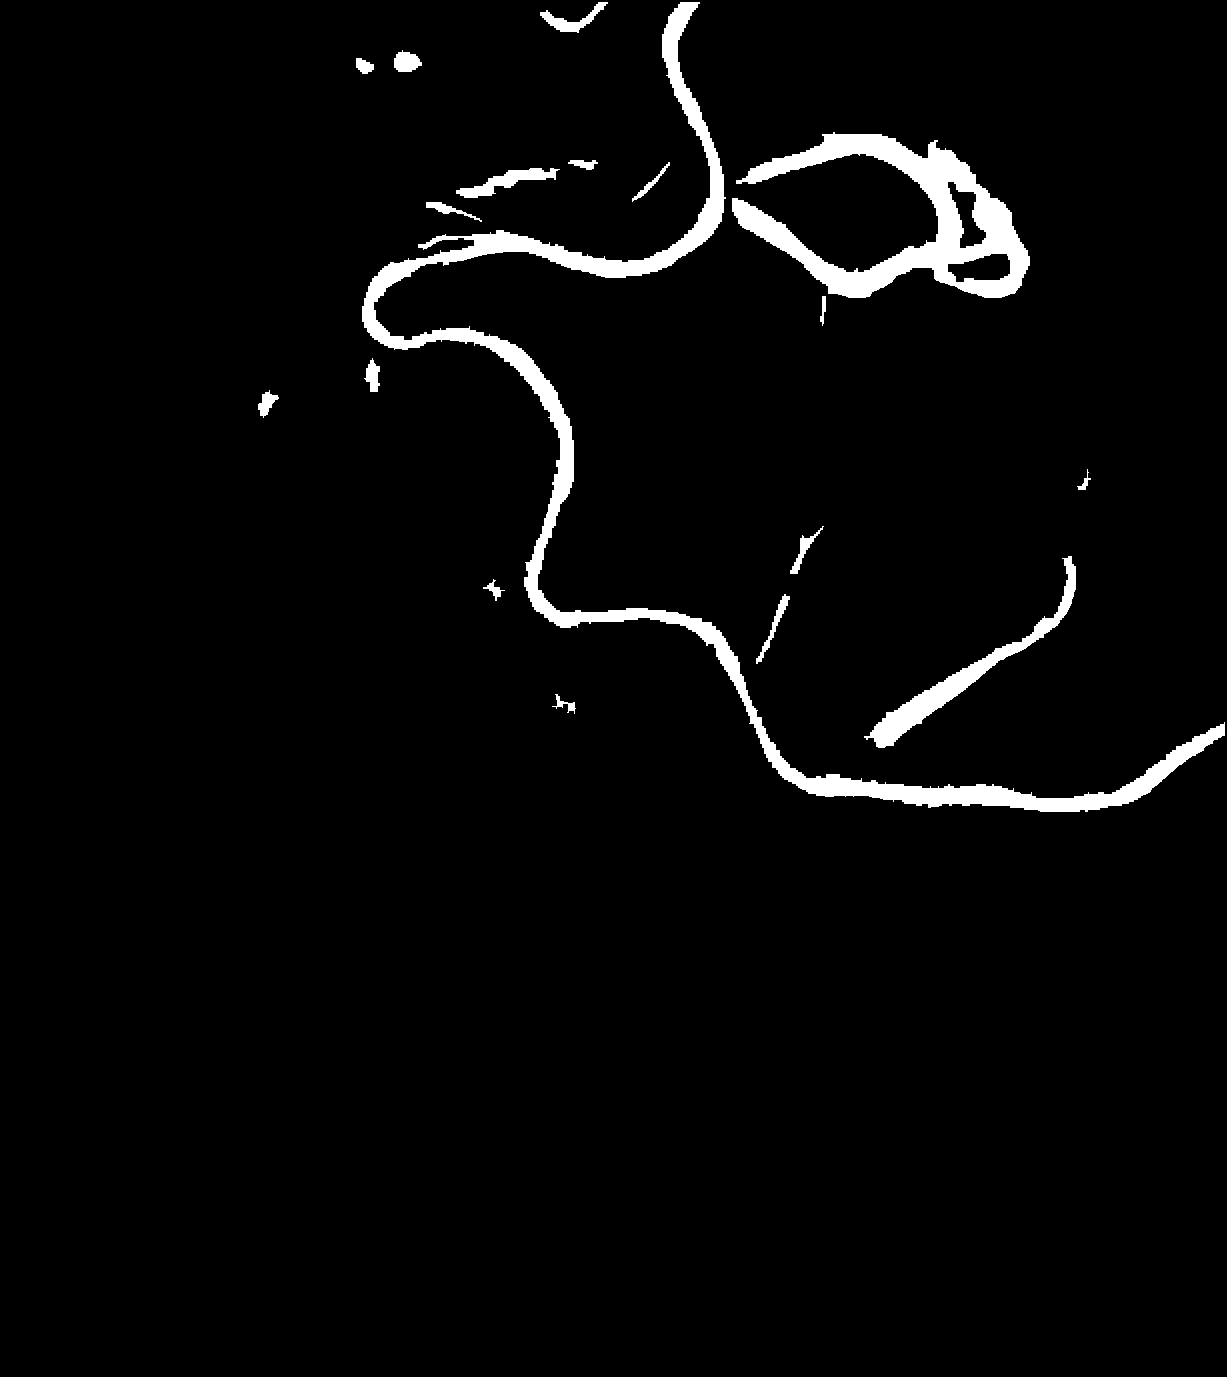
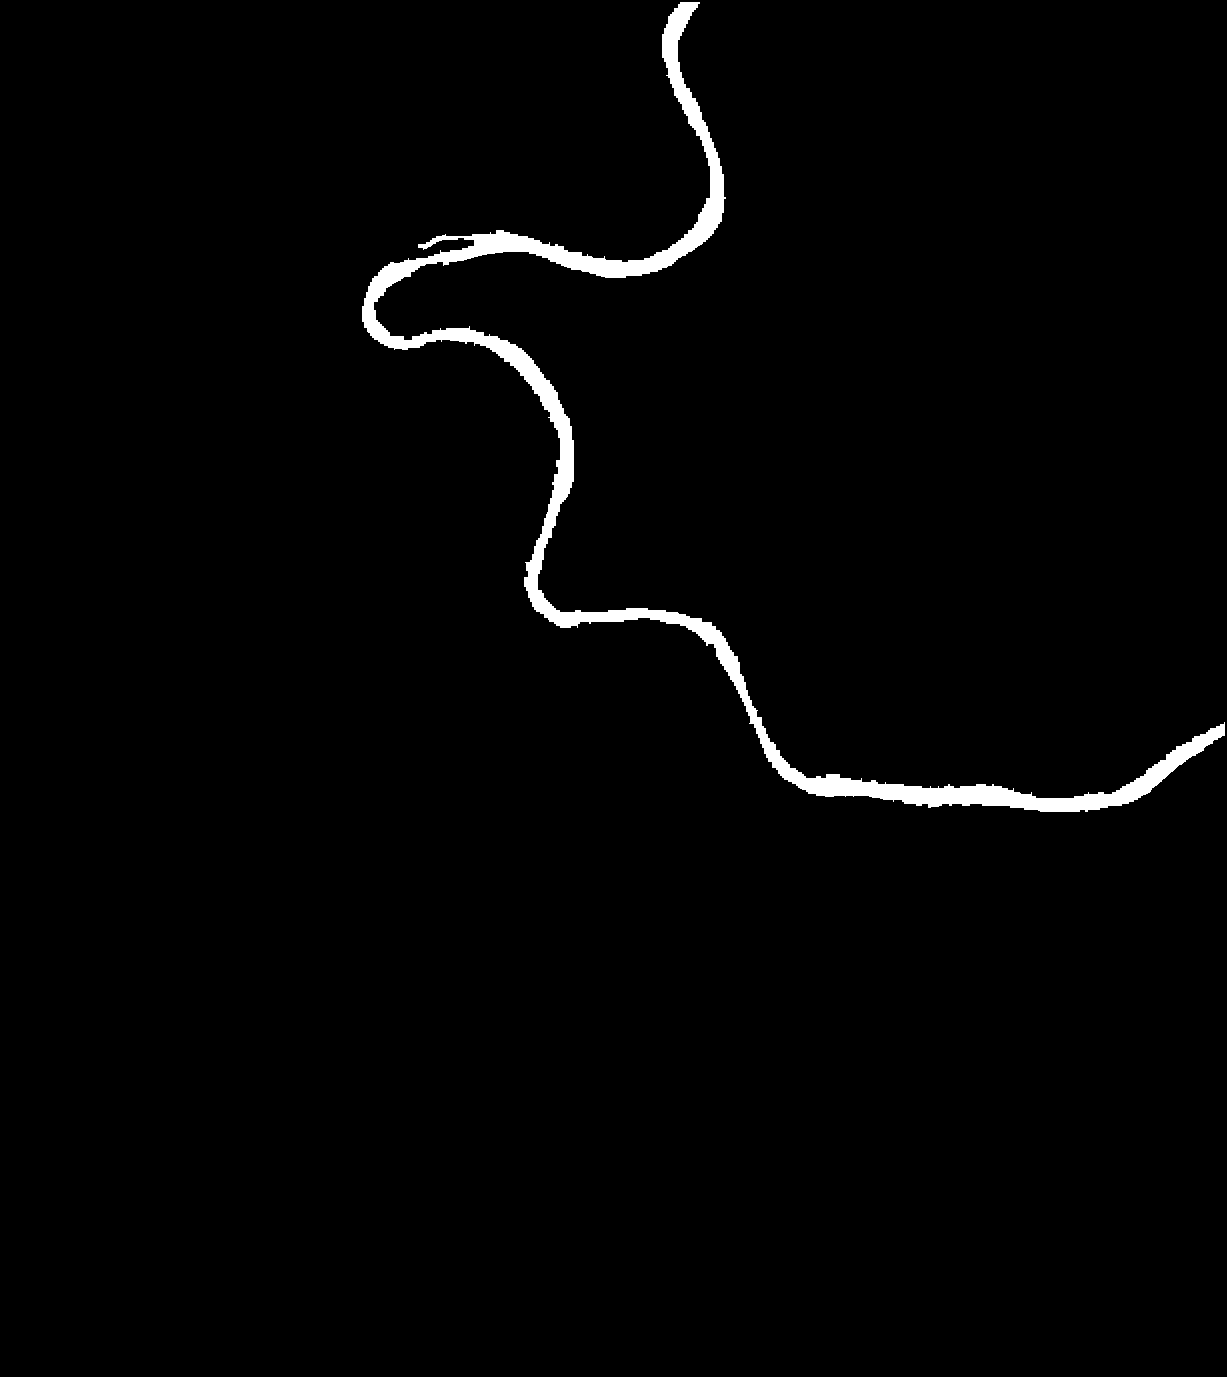
Обновления: анализ и обработка сцен, документация и тестовые данные

diff --git a/river_mcp/analysis.py b/river_mcp/analysis.py
@@ -63,15 +63,18 @@ def water_index(scene: Scene, kind: str = "ndwi") -> np.ndarray:
 
 
 def water_mask(index: np.ndarray, min_blob_pixels: int = 64):
-    """Otsu-threshold the index into a water mask.
+    """Otsu-threshold the index into a water mask of the MAIN RIVER.
 
     NaN-safe: Otsu is computed only over finite pixels; NaN is treated as non-water.
+    A morphological closing bridges thin gaps (bridges, sandbars, short turbid
+    stretches) so the channel does not get severed, then only the SINGLE LARGEST
+    connected component is kept -- i.e. the main river. Separate water bodies
+    (isolated ponds, distant wet fields) are dropped.
 
-    Real-data robustness: a morphological closing bridges thin gaps (bridges,
-    sandbars, short turbid stretches) so the channel does not get split, and then
-    ALL water bodies larger than `min_blob_pixels` are kept (not only the single
-    largest) so a river broken into several pieces is preserved in full. Note this
-    also keeps large standing water (lakes, oxbows) if present.
+    Caveats: a wide gap the closing cannot bridge may split the river, leaving only
+    the larger piece; and a town that physically touches the river stays (it is one
+    connected blob with the channel) -- pick an AOI without the town to avoid it,
+    since morphology cannot separate spectrally-similar, touching features.
     """
     finite = np.isfinite(index)
     if not finite.any():
@@ -85,10 +88,10 @@ def water_mask(index: np.ndarray, min_blob_pixels: int = 64):
     if n == 0:
         return np.zeros(index.shape, dtype=bool), thr
     sizes = ndimage.sum(np.ones_like(labels), labels, index=range(1, n + 1))
-    keep_ids = np.where(sizes >= min_blob_pixels)[0] + 1
-    if keep_ids.size == 0:
+    biggest = int(np.argmax(sizes)) + 1  # largest connected component = the river
+    if sizes[biggest - 1] < min_blob_pixels:
         return np.zeros(index.shape, dtype=bool), thr
-    return np.isin(labels, keep_ids), thr
+    return labels == biggest, thr
 
 
 def _to_lonlat(scene: Scene, cols, rows):

diff --git a/river_mcp/server.py b/river_mcp/server.py
@@ -82,7 +82,10 @@ def list_scenes() -> dict:
 # --- tool 2 ------------------------------------------------------------------
 @mcp.tool()
 def compute_water_mask(scene: str, index: str = "ndwi") -> dict:
-    """Compute a water mask for a scene using a water index, and save a PNG preview.
+    """Compute a water mask of the main river for a scene, and save a PNG preview.
+
+    Keeps the largest connected water body (the main river) and drops separate ponds
+    / wet fields; see analysis.water_mask for caveats (touching towns, wide gaps).
 
     Args:
         scene: bare filename of a GeoTIFF in the data dir (see list_scenes).
@@ -137,6 +140,7 @@ def measure_river_width(scene: str, index: str = "ndwi", max_samples: int = 25) 
 
     Width is estimated from the distance transform of the water mask sampled along
     the morphological skeleton, converted to metres via the scene's pixel size.
+    Operates on the main river (largest connected water body).
 
     Args:
         scene: bare filename of a GeoTIFF in the data dir.
@@ -183,7 +187,7 @@ def detect_obstruction_candidates(scene: str, index: str = "ndwi",
     A point is flagged when its local width drops below `sensitivity * median width`.
     These are candidates for human review (e.g. possible log jams, debris dams, or
     natural narrows), NOT confirmed obstructions -- 10 m imagery cannot resolve an
-    individual log jam (see README).
+    individual log jam (see README). Operates on the main river (largest water body).
 
     Args:
         scene: bare filename of a GeoTIFF in the data dir.

diff --git a/README.md b/README.md
@@ -90,11 +90,17 @@ python scripts/test_mcp_client.py
 
 Метод: водный индекс **NDWI** = (Green−NIR)/(Green+NIR) или **MNDWI** =
 (Green−SWIR)/(Green+SWIR, лучше для мутной воды) → порог **Оцу** (по «живым»
-пикселям, NaN = не вода) → морфологическое **закрытие** тонких разрывов + отбор **всей
-воды** крупнее порога площади → **скелетонизация** (центральная линия) → ширина из
+пикселям, NaN = не вода) → морфологическое **закрытие** тонких разрывов → отбор
+**самой крупной связной компоненты** (главное русло; отдельные пруды и мокрые поля
+отбрасываются) → **скелетонизация** (центральная линия) → ширина из
 **distance transform**
 (× размер пикселя) → кандидаты-сужения как точки, где локальная ширина падает ниже
 `sensitivity × медиана`. Полные форматы ответов — в [`docs/contract.md`](docs/contract.md).
+
+Важное ограничение: если город/застройка **физически примыкает** к реке, он попадёт в ту
+же связную компоненту и останется в маске (морфология не разделяет спектрально похожие
+соприкасающиеся объекты). Для чистого результата берите участок реки **без застройки в
+кадре** — см. пресеты в разделе 8.
 
 ---
 
